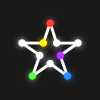
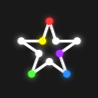
planet plan

Changed region(s): [[0.1531, 0.1531, 0.8571, 0.8265]]

diff --git a/src/app/components/home/home.component.scss b/src/app/components/home/home.component.scss
@@ -1,23 +1,39 @@
-.logo {
-    position: fixed;
-    top: 50%;
-    left: 50%;
-    transition: transform 0.3s;
-    pointer-events: auto;
-    animation:
-        color-switch 8s linear infinite,
-        grow 4s ease-in-out infinite;
+@property --hue {
+  syntax: "<angle>";
+  inherits: false;
+  initial-value: 0deg;
+}
 
-    &:hover {}
+.logo {
+    position: absolute;
+
+    img {
+        position: fixed;
+        top: 50%;
+        left: 50%;
+        width: 225px;
+        transition: transform 0.3s;
+
+        --hue: 0deg;
+        
+        filter: sepia(0) saturate(1) hue-rotate(var(--hue));
+        animation:
+            color-switch 8s linear infinite,
+            grow 4s ease-in-out infinite;
+
+        &:hover {
+            filter: sepia(1) saturate(3) hue-rotate(var(--hue));
+        }
+    }
 }
 
 @keyframes color-switch {
     from {
-        filter: hue-rotate(0deg);
+        --hue: 0deg;
     }
 
     to {
-        filter: hue-rotate(360deg);
+        --hue: 360deg;
     }
 }
 
@@ -40,26 +56,33 @@ button {
     cursor: pointer;
 }
 
+@property --rotate {
+  syntax: "<angle>";
+  inherits: false;
+  initial-value: 0deg;
+}
+
 .visual-orbit {
     position: absolute;
     top: 50%;
     left: 50%;
     width: 400px;
     height: 800px;
-    border: 2px solid var(--accent);
+    border: 3px solid rgb(61, 61, 61);
     border-radius: 50%;
     pointer-events: none;
 
-    &.one {
-        transform: translate(-50%, -50%);
+    --rotate: 0deg;
+    
+    transform: translate(-50%, -50%) rotate(var(--rotate));
+    animation: orbit-rotate 60s linear infinite;
+
+    &.one {        
+        animation-delay: 0s;
     }
 
-    &.two {
-        transform: translate(-50%, -50%) rotate(60deg);
-    }
-
-    &.three {
-        transform: translate(-50%, -50%) rotate(-60deg);
+    &.two {        
+        animation-delay: -15s;
     }
 }
 
@@ -71,24 +94,36 @@ button {
     height: 800px;
     pointer-events: none;
 
+    --rotate: 0deg;
+
+    transform: translate(-50%, -50%) rotate(var(--rotate));
+    animation: orbit-rotate 60s linear infinite;
+
     &.one {
-        transform: translate(-50%, -50%);
+        animation-delay: 0s;
     }
 
     &.two {
-        transform: translate(-50%, -50%) rotate(60deg);
+        animation-delay: -15s;
+    }
+}
+
+@keyframes orbit-rotate {
+    from {
+        --rotate: 0deg;
     }
 
-    &.three {
-        transform: translate(-50%, -50%) rotate(-60deg);
+    to {
+        --rotate: 360deg;
     }
 }
 
 .satellite {
     position: absolute;
-    width: 70px;
-    height: 70px;
-    border-radius: 10px;
+    width: 80px;
+    height: 80px;
+    box-shadow: 0px 0px 20px 5px rgb(56, 56, 56);
+    border-radius: 50%;
     background-color: var(--accent);
     animation: satellite 60s linear infinite;
     offset-path: ellipse(200px 400px at center);
@@ -101,43 +136,26 @@ button {
     }
 
     &.one {
-        offset-rotate: 0deg;
-
         &.constellation {
             animation-delay: -30s;
             background-image: url('/projects/constellation.png');
-            box-shadow: 0 0 10px 1px rgb(87, 87, 87);
         }
 
-        &.game-dev-blog {
+        &.gamedevblog {
             animation-delay: 0s;
+            background-image: url('/projects/gamedevblog.png');
         }
     }
 
     &.two {
-        offset-rotate: -60deg;
-
         &.guessphrase {
             animation-delay: -30s;
             background-image: url('/projects/guessphrase.png');
-            box-shadow: 0 0 10px 1px rgb(122, 106, 61);
         }
-
-        &.pathfinder {
-            background-image: url('/projects/pathfinder.png');
-            box-shadow: 0 0 10px 1px rgb(72, 116, 72);
-        }
-    }
-
-    &.three {
-        offset-rotate: 60deg;
 
         &.photophobia {
-            animation-delay: -30s;
-        }
-
-        &.portfolio {
             animation-delay: 0s;
+            background-image: url('/projects/photophobia.png');
         }
     }
 }

diff --git a/src/app/components/home/home.component.html b/src/app/components/home/home.component.html
@@ -1,18 +1,13 @@
-<button><img class="logo" src="logo.png" alt=""></button>
+<button class="logo"><img src="logo.png" alt=""></button>
 <div>
     <div class="visual-orbit one"></div>
     <div class="visual-orbit two"></div>
-    <div class="visual-orbit three"></div>
 </div>
 <div class="orbit one">
     <button class="satellite one constellation"></button>
-    <button class="satellite one game-dev-blog"></button>
+    <button class="satellite one gamedevblog"></button>
 </div>
 <div class="orbit two">
     <button class="satellite two guessphrase"></button>
-    <button class="satellite two pathfinder"></button>
-</div>
-<div class="orbit three">
-    <button class="satellite three photophobia"></button>
-    <button class="satellite three portfolio"></button>
+    <button class="satellite two photophobia"></button>
 </div>

diff --git a/src/styles.scss b/src/styles.scss
@@ -1,7 +1,6 @@
 :root {
     --background: rgb(22, 22, 22);
     --font-default: rgb(255, 255, 255);
-    --accent: rgb(75, 75, 75);
 }
 
 * {
@@ -14,4 +13,5 @@ body {
     color: var(--font-default);
     background-color: var(--background);
     font-family: 'Courier Prime';
+    overflow: hidden;
 }
